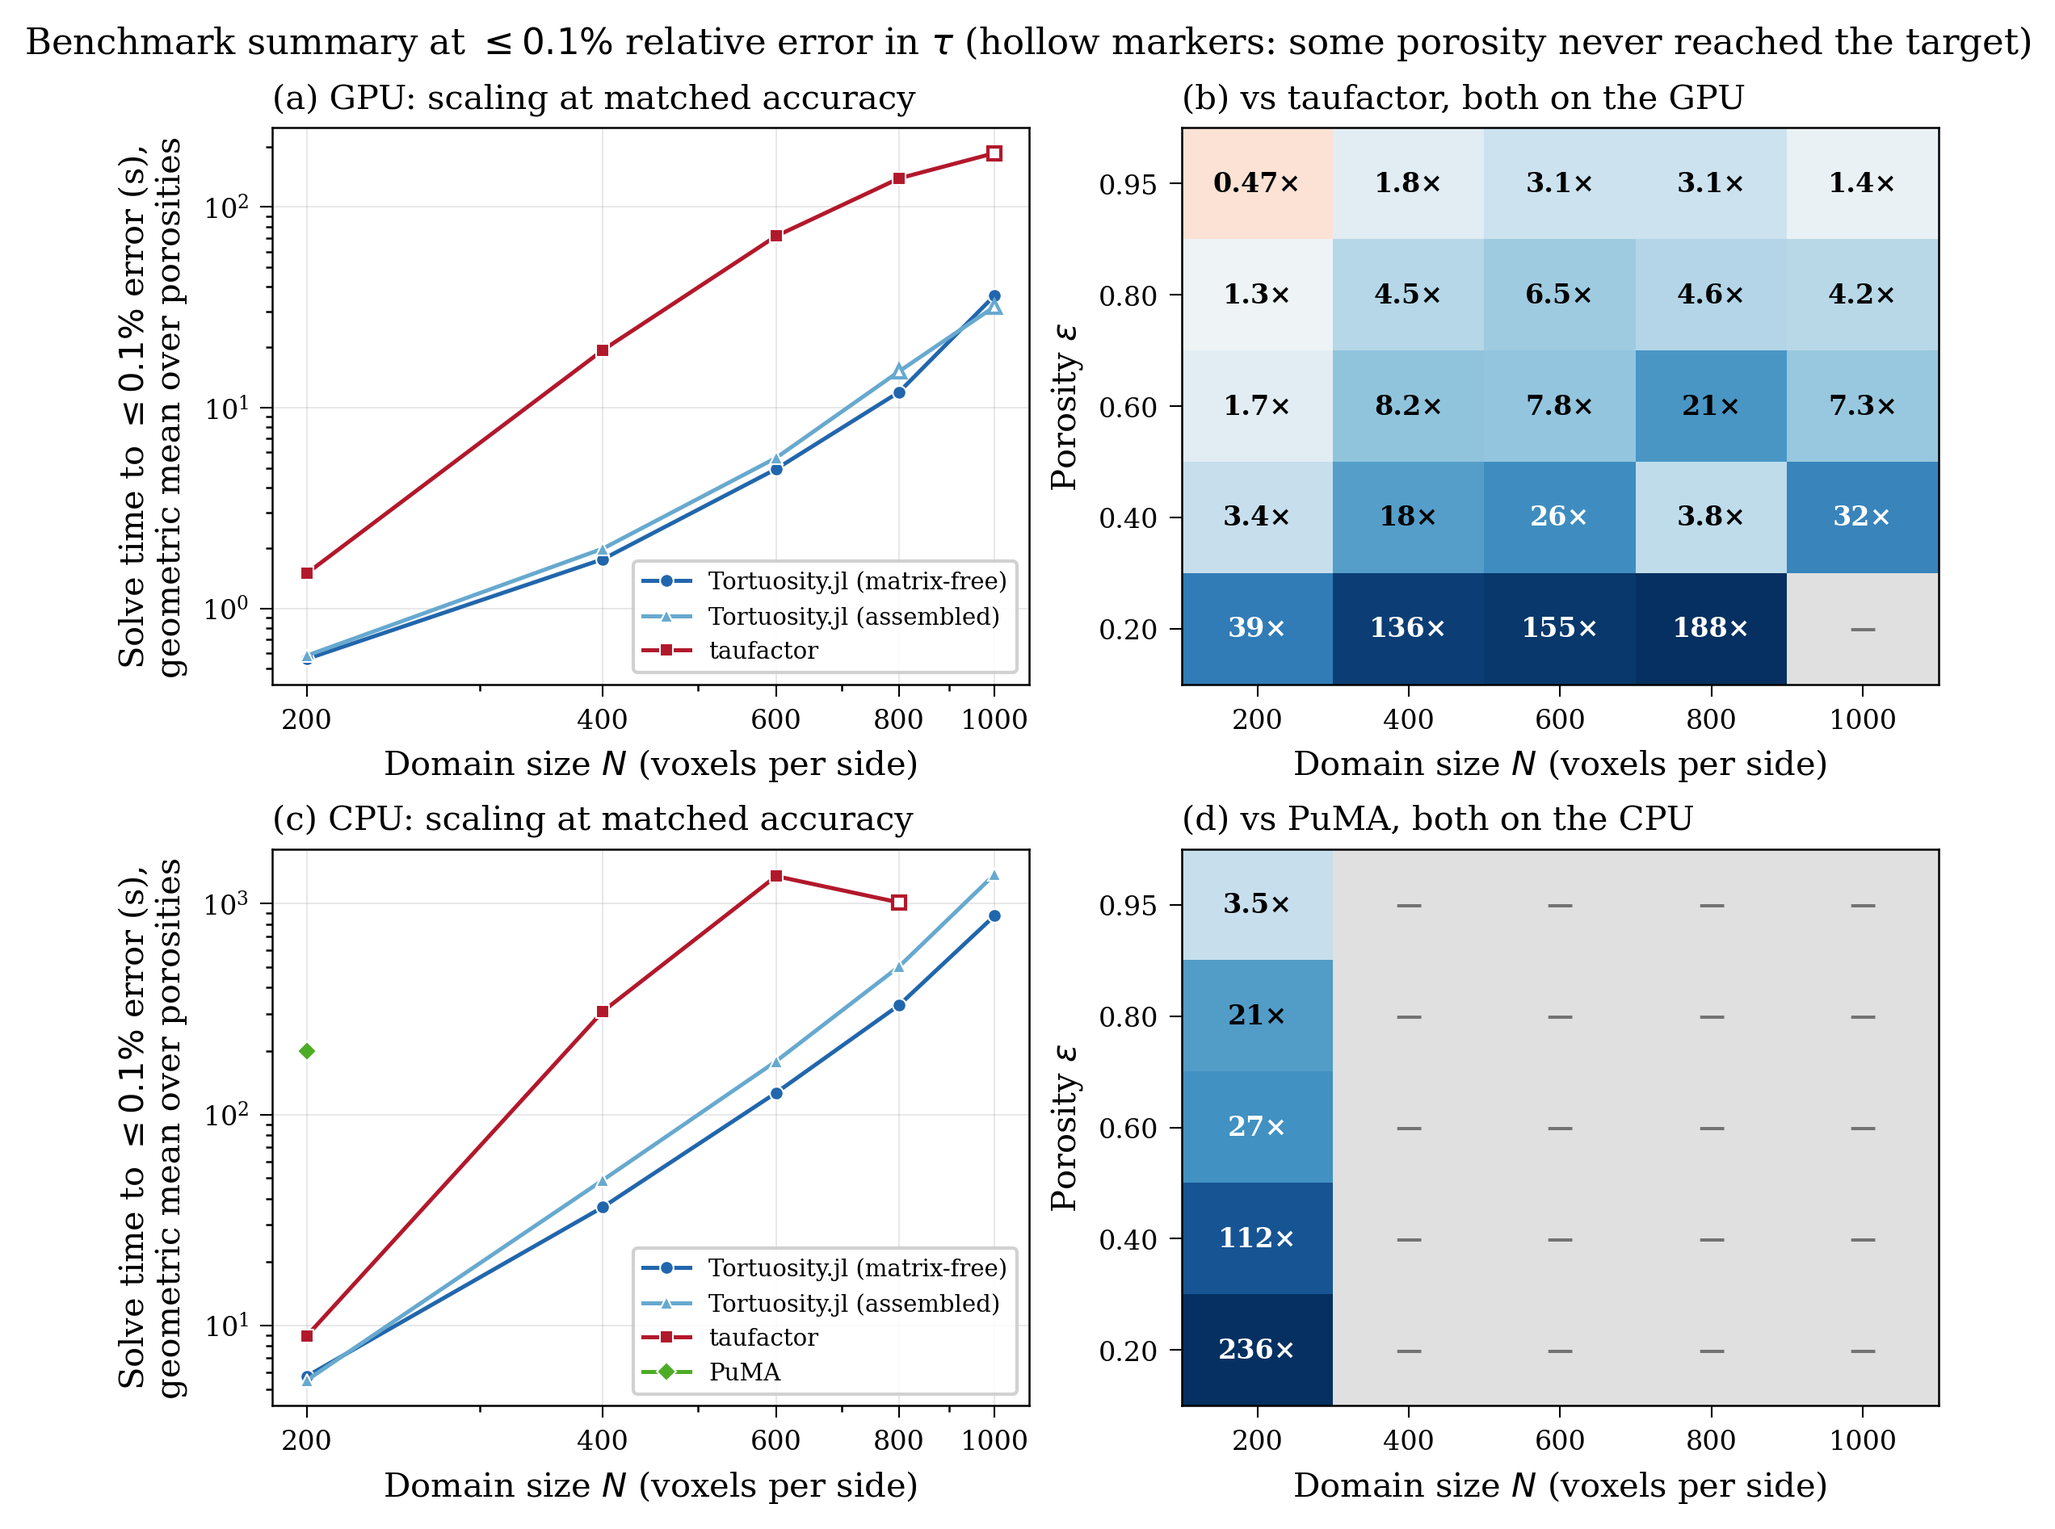
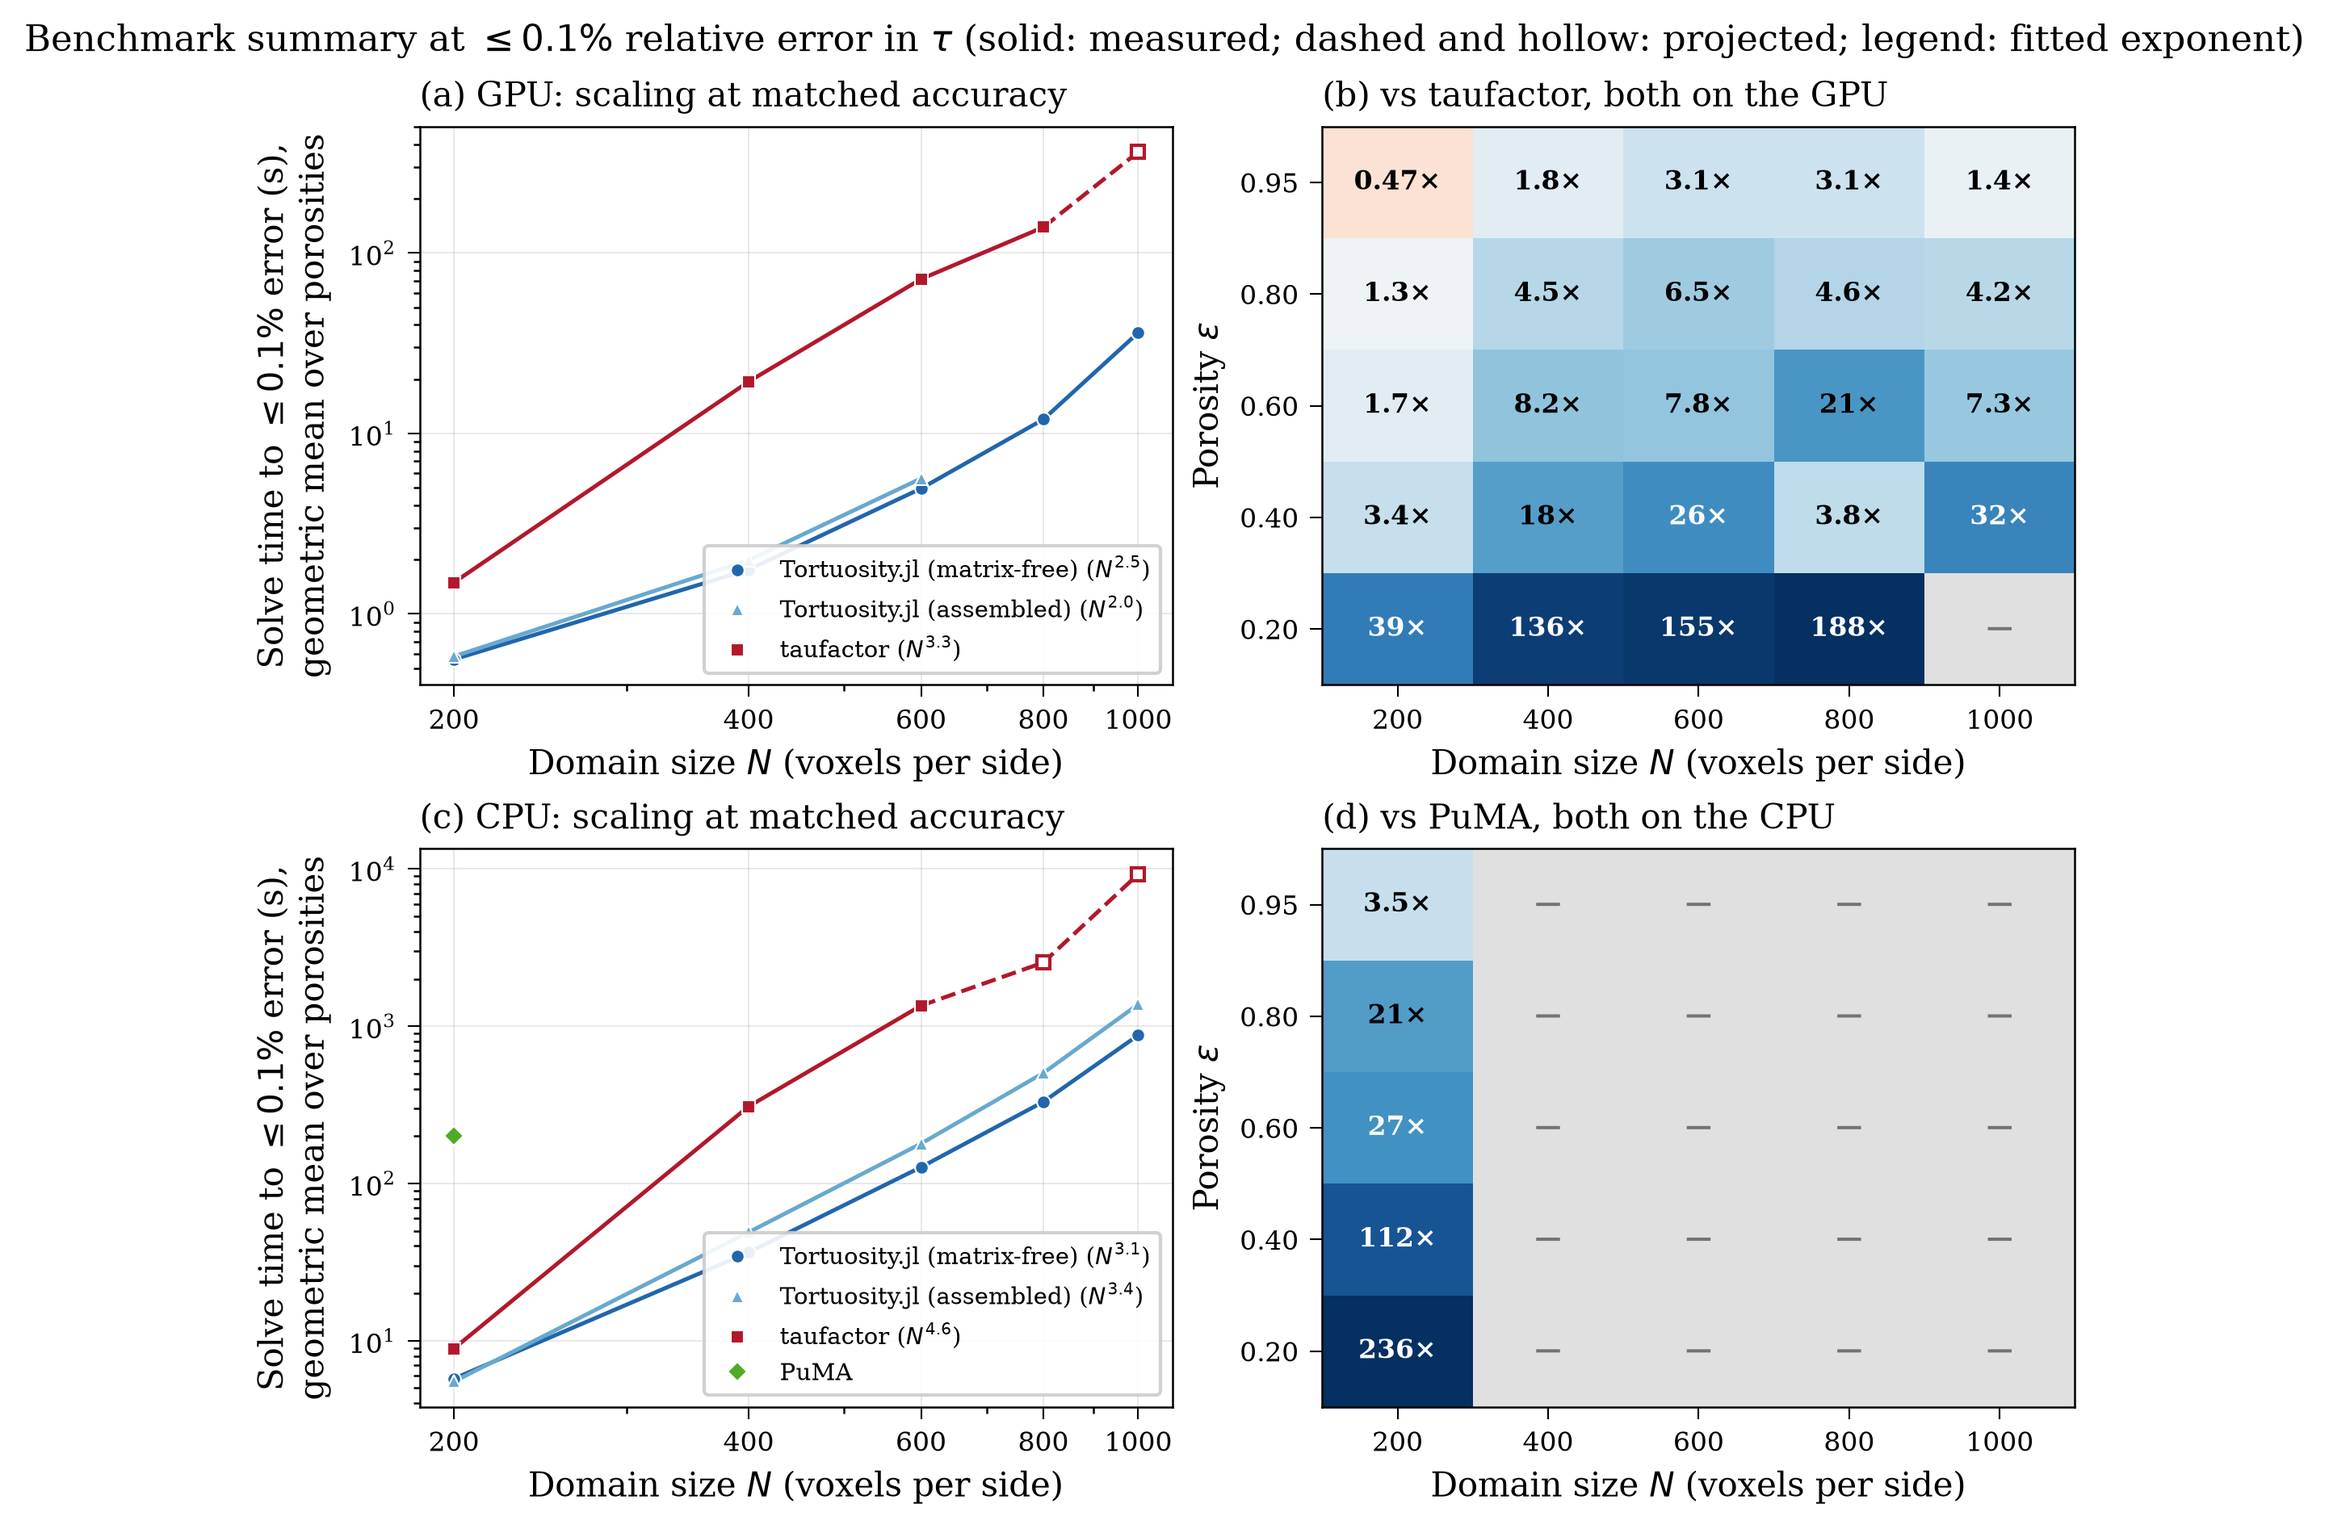
fix(benchmarks): stop the scaling panels averaging over a moving porosity set
The panels drew a geometric mean over whichever porosities each tool
happened to reach, which makes the plotted quantity a different one at
every size. It is also biased in one direction, because the porosity a
tool loses first is the densest, which is the one it is slowest on.
taufactor lost eps = 0.2 at 1000 cubed on the GPU and at 800 cubed on the
CPU, so the mean fell, and the figure showed a solver levelling off on
one device and speeding up on the other. Neither happens. The artifact
also worked against us: it hid that taufactor scales worse than we do.

Every size now averages over the same five porosities. A cell the tool
was never run at, or ran at without reaching the target in budget, is
filled from a power law fitted to that porosity's own measured sizes.
One fit per porosity rather than per series, because taufactor's exponent
runs 3.1 to 3.9 across porosity on the GPU and 3.2 to 5.0 on the CPU, so
a single exponent would project the dense images at the open images'
rate. A cell that ran out of memory is never projected and takes its
whole size off the curve, since the tool cannot solve that image at all;
that is why the assembled operator now ends at 600 cubed on the GPU.
Both the projections and the dropped sizes are logged.

A power law is the only form the physics admits, and it fits taufactor at
R^2 from 0.95 to 0.998 per porosity. It is also what makes the per-cell
noise tolerable: which rung of a coarse ladder first crosses the target
[…]

diff --git a/benchmarks/make_figures.py b/benchmarks/make_figures.py
@@ -129,35 +129,133 @@ class Campaign:
 
 # ── Scaling at matched accuracy ──────────────────────────────────────
 
-def draw_scaling_panel(ax, campaign, device, target, sizes):
-    """One accuracy-matched scaling panel: time vs size, one line per tool.
+# Fewest sizes a porosity must have been measured at before its power law is
+# fitted and used to stand in for a size it was not measured at. Two points
+# define a line with nothing left over to judge it by.
+PROJECTION_MIN_SIZES = 3
 
-    Points where some porosity never reached the target are drawn hollow. A tool
-    that only converges on the easy images would otherwise show a flatteringly
-    low average with nothing to say it was incomplete.
+
+def out_of_memory(timings, *, device, series, size, porosity, blobiness):
+    """Whether this case failed on the hardware rather than going unmeasured.
+
+    Every `error` row in the campaign is an out-of-memory failure, so a cell
+    holding one is not a measurement someone chose to skip: the tool cannot solve
+    that image on this machine at all. Projecting a time for it would put a
+    number on the page for a run that can never happen, which is a different
+    claim from projecting one that was merely never afforded.
+    """
+    cell = timings[(timings["device"] == device) & (timings["series"] == series)
+                   & (timings["size"] == size)
+                   & np.isclose(timings["porosity_target"], porosity)
+                   & np.isclose(timings["blobiness"], blobiness)]
+    return bool((cell["stop_reason"] == "error").any())
+
+
+def scaling_points(campaign, device, target, sizes, series):
+    """Time against size for one series: `(points, projected_sizes, exponent)`.
+
+    Averaging over only the porosities a tool happened to reach makes the plotted
+    quantity a different one at every size, and biases it in a known direction:
+    the porosity a tool drops first is the one it is slowest on. taufactor's
+    hardest image at each size is its densest, so losing that image pulls the
+    mean down far enough to draw a solver that was still slowing as though it had
+    levelled off, and on the CPU as though it had started to speed up. Neither
+    happens. Both are the average changing underneath the curve.
+
+    So every size here averages over the same five porosities. A porosity the
+    tool was never run at, or ran at without reaching the target inside its
+    budget, is filled in from its own fitted power law over the sizes it did
+    reach. A porosity that ran out of memory is not filled in, and takes its
+    whole size off the curve: there is no honest mean over a set of images one of
+    which the tool cannot solve at all.
+    """
+    times = fig.target_times(campaign.timings, target, device=device, series=series,
+                             sizes=sizes, porosities=campaign.porosities,
+                             blobiness=campaign.reference_blobiness)
+    # One power law per porosity rather than one for the series. The exponent
+    # rises steeply as the pore space closes -- taufactor spans 3.1 to 3.9 on the
+    # GPU and 3.2 to 5.0 on the CPU -- so a single exponent would project the
+    # dense images, the ones that are missing, at the open images' rate.
+    fits = {}
+    for por in campaign.porosities:
+        measured = [n for n in sizes if np.isfinite(times[(n, por)])]
+        if len(measured) >= PROJECTION_MIN_SIZES:
+            fits[por] = fig.power_law(measured, [times[(n, por)] for n in measured])
+
+    points, projected = [], []
+    for size in sizes:
+        filled, borrowed = [], False
+        for por in campaign.porosities:
+            value = times[(size, por)]
+            if np.isfinite(value):
+                filled.append(value)
+                continue
+            fit = fits.get(por)
+            if fit is None or out_of_memory(campaign.timings, device=device, series=series,
+                                            size=size, porosity=por,
+                                            blobiness=campaign.reference_blobiness):
+                filled = None
+                break
+            a, exponent, _ = fit
+            filled.append(a * size ** exponent)
+            borrowed = True
+        if not filled:
+            continue
+        points.append((size, fig.geomean(filled)))
+        if borrowed:
+            projected.append(size)
+
+    # The line is fitted to the measured means alone. Refitting it through the
+    # projected ones would draw a model back through its own output and hide
+    # whether the two agree, which is the one thing a reader should be able to
+    # check by eye.
+    solid = [(n, t) for n, t in points if n not in projected]
+    fit = fig.power_law([n for n, _ in solid], [t for _, t in solid]) if len(solid) >= 3 else None
+    # Say what was projected and what was dropped. A curve that quietly stops
+    # short, or quietly rests on a fit, reads exactly like one that does neither.
+    if projected:
+        logger.info(f"{series} on the {device} at {target:g}: projected {projected} "
+                    f"from a per-porosity power law")
+    dropped = [n for n in sizes if n not in [p for p, _ in points]]
+    if dropped:
+        logger.info(f"{series} on the {device} at {target:g}: left {dropped} off, where a "
+                    "porosity was neither measured nor projectable")
+    return points, projected, fit
+
+
+def draw_scaling_panel(ax, campaign, device, target, sizes):
+    """One accuracy-matched scaling panel: time against size, one line per tool.
+
+    The solid line joins measurements and the dashed one runs on to sizes reached
+    by projection, drawn hollow. The fitted exponent rides in the legend rather
+    than as a line through the points, because it is a summary and not the
+    measurement: `Tortuosity.jl` is deliberately not a single power law, since a
+    setup cost that dominates a small image and vanishes on a large one bends the
+    curve, and a fitted line drawn through those points would look like a bad fit
+    where the data is fine.
     """
     for series in campaign.series_on(campaign.timings, device):
-        times = fig.target_times(campaign.timings, target, device=device, series=series,
-                                 sizes=sizes, porosities=campaign.porosities,
-                                 blobiness=campaign.reference_blobiness)
-        xs, ys, partial = [], [], []
-        for size in sizes:
-            hits = [times[(size, p)] for p in campaign.porosities]
-            hits = [t for t in hits if np.isfinite(t)]
-            if not hits:
-                continue
-            xs.append(size)
-            ys.append(fig.geomean(hits))
-            if len(hits) < len(campaign.porosities):
-                partial.append((size, ys[-1]))
-        if not xs:
+        points, projected, fit = scaling_points(campaign, device, target, sizes, series)
+        if not points:
             continue
         marker, color = fig.style_for(series)
-        ax.plot(xs, ys, marker=marker, color=color, label=series,
-                markeredgewidth=0.5, markeredgecolor="white", zorder=3)
-        if partial:
-            ax.plot(*zip(*partial), marker, color="white", markeredgewidth=1.0,
-                    markeredgecolor=color, linestyle="none", zorder=4)
+        label = series if fit is None else f"{series} ($N^{{{fit[1]:.1f}}}$)"
+        measured = [p for p in points if p[0] not in projected]
+        # Where the solid line hands over to the dashed one. With nothing measured
+        # the smallest size takes that role, which leaves the solid span a single
+        # point, too short to draw, and dashes the whole curve.
+        edge = max((n for n, _ in measured), default=min(n for n, _ in points))
+        for span, style in (([p for p in points if p[0] <= edge], "-"),
+                            ([p for p in points if p[0] >= edge], "--")):
+            if len(span) >= 2:
+                ax.plot(*zip(*span), style, color=color, zorder=2)
+        if measured:
+            ax.plot(*zip(*measured), marker, color=color, linestyle="none", label=label,
+                    markeredgewidth=0.5, markeredgecolor="white", zorder=3)
+        if projected:
+            ax.plot(*zip(*[p for p in points if p[0] in projected]), marker,
+                    color="white", markeredgewidth=1.0, markeredgecolor=color,
+                    linestyle="none", zorder=4, label=None if measured else label)
     ax.set_xlabel("Domain size $N$ (voxels per side)")
     ax.set_ylabel("Solve time (s)")
     fig.log_size_axis(ax, sizes)
@@ -175,15 +273,18 @@ def figure_scaling(campaign):
         for ax, target, label in zip(np.atleast_1d(axes), fig.THRESHOLDS, fig.THRESHOLD_LABELS):
             draw_scaling_panel(ax, campaign, device, target, sizes)
             ax.set_title(f"target $\\leq {label}$")
+            # A legend per panel rather than one for the figure. The exponent is
+            # part of each label and it is a property of the target as much as of
+            # the tool, so a shared legend would print the leftmost panel's
+            # exponents over all three. Every curve rises with N, which leaves the
+            # large-N corner free for it.
+            ax.legend(loc="lower right", framealpha=0.9, fontsize=6)
         for ax in np.atleast_1d(axes)[1:]:
             ax.set_ylabel("")
         np.atleast_1d(axes)[0].set_ylabel("Solve time (s), geometric mean")
-        handles, labels = np.atleast_1d(axes)[0].get_legend_handles_labels()
-        figure.legend(handles, labels, loc="lower center", ncol=len(labels),
-                      frameon=False, bbox_to_anchor=(0.5, -0.06))
         figure.suptitle(f"Scaling at matched accuracy on the {device.upper()} "
-                        f"(blobiness {campaign.reference_blobiness:g}; "
-                        "hollow: some porosity never reached the target)", y=1.02)
+                        f"(blobiness {campaign.reference_blobiness:g}; solid: measured; "
+                        "dashed and hollow: projected; legend: fitted exponent)", y=1.02)
         figure.tight_layout()
         campaign.save(figure, f"scaling_{device}.png")
 
@@ -621,7 +722,7 @@ def figure_summary(campaign):
         ax_map.set_title(f"({next(tag)}) vs {competitor}, both on the {device.upper()}", loc="left")
 
     figure.suptitle("Benchmark summary at $\\leq 0.1\\%$ relative error in $\\tau$ "
-                    "(hollow markers: some porosity never reached the target)")
+                    "(solid: measured; dashed and hollow: projected; legend: fitted exponent)")
     campaign.save(figure, "summary.png")
 
 

diff --git a/benchmarks/benchkit/figures.py b/benchmarks/benchkit/figures.py
@@ -122,6 +122,36 @@ def geomean(values):
     return float(np.exp(np.log(v).mean())) if v.size else np.nan
 
 
+def power_law(sizes, times):
+    """Fit `t = a N^p` by least squares on `log t` against `log N`.
+
+    Returns `(a, p, r2)`, or `None` from fewer than three sizes, where a
+    two-parameter fit would be interpolation with no residual left to judge it by.
+
+    A power law is the only form the physics admits. Every solver here does a
+    fixed amount of work per unknown per iteration, the unknown count is a power
+    of the edge length, and the iteration count is itself a power of it, so the
+    product is one too. A polynomial in `N` fitted over a size range spanning a
+    factor of five is free to curve back on itself and put a plateau, or a fall,
+    on a page where the runtime can only rise.
+
+    Fitting a straight line has a closed form, which is exact and reads as the
+    definition of the quantity it returns, so there is nothing here for a least
+    squares routine to do.
+    """
+    n = np.asarray(sizes, dtype=float)
+    t = np.asarray(times, dtype=float)
+    if n.size < 3:
+        return None
+    x, y = np.log(n), np.log(t)
+    dx, dy = x - x.mean(), y - y.mean()
+    p = float((dx * dy).sum() / (dx * dx).sum())
+    a = float(np.exp(y.mean() - p * x.mean()))
+    residual = ((y - (np.log(a) + p * x)) ** 2).sum()
+    spread = (dy ** 2).sum()
+    return a, p, float(1 - residual / spread) if spread > 0 else np.nan
+
+
 def time_to_target(frame, target):
     """Wall time of the fastest measured run in `frame` that reaches `target`.
 
